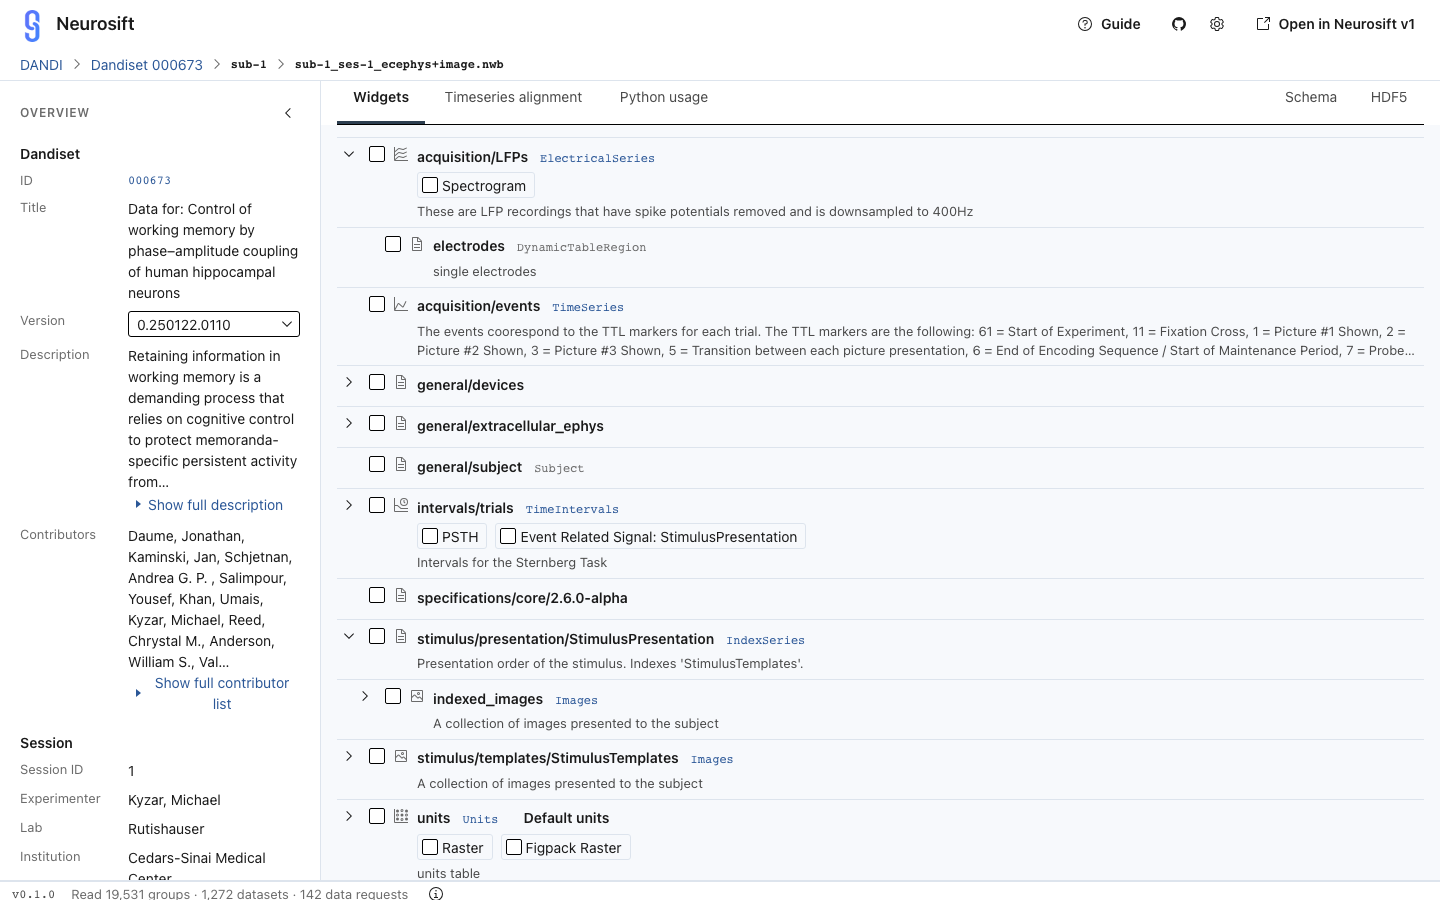
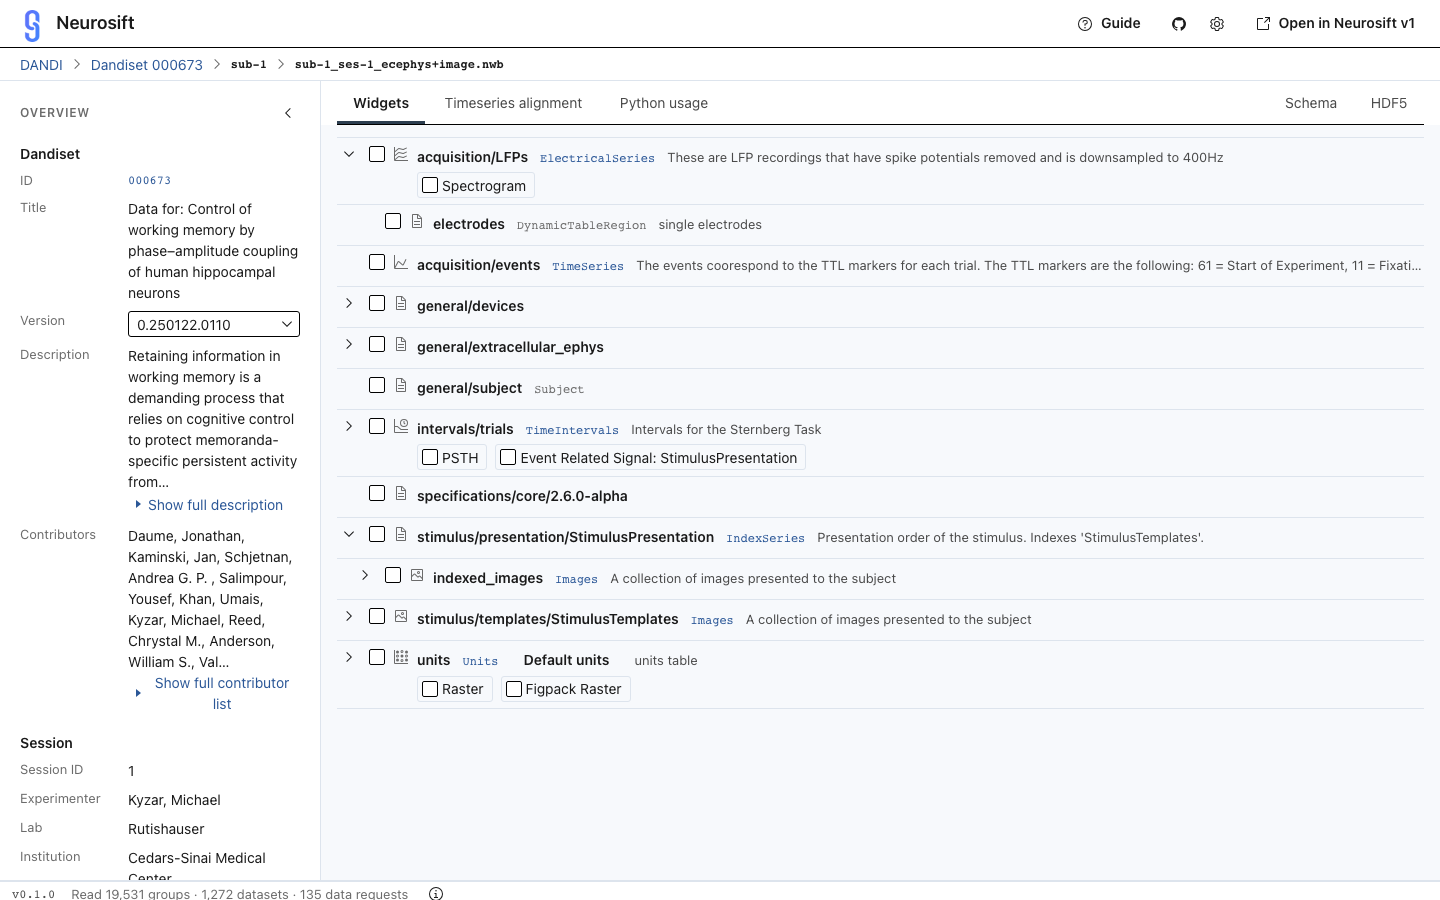
Object tree: put the description beside the neurodata type (#142)
The description now follows the type and badge on the row's first line,
one line cut with an ellipsis, the full text in the DOM and in a title for
hover; view chips stay below. With under 8rem left after the type it moves
to the next line, still one line. The docs clip check accepts an ellipsis
that keeps its full text in title. Updates the Object tree and Tables docs
and re-captures the Main tab with Dandiset 000673.

diff --git a/src/ui/ObjectTree/ObjectTree.test.tsx b/src/ui/ObjectTree/ObjectTree.test.tsx
@@ -69,6 +69,36 @@ describe("ObjectRow", () => {
     ).toContain("LFP recordings");
   });
 
+  it("puts the description on the first line after the type and badge, the views below", () => {
+    const { container } = row({ badge: <span>Default units</span> });
+    const head = container.querySelector(".ns-object-head")!;
+    expect(
+      [...head.children].map((child) => child.textContent?.slice(0, 16)),
+    ).toEqual([
+      "LFPs",
+      "ElectricalSeries",
+      "Default units",
+      "These are LFP re",
+    ]);
+    expect(
+      head.compareDocumentPosition(
+        container.querySelector(".ns-object-views")!,
+      ),
+    ).toBe(Node.DOCUMENT_POSITION_FOLLOWING);
+  });
+
+  it("keeps the full description in the DOM and on hover, however it’s cut", () => {
+    const { container, description } = row();
+    const text = container.querySelector(".ns-object-description")!;
+    expect(text.textContent).toBe(description);
+    expect(text.getAttribute("title")).toBe(description);
+  });
+
+  it("leaves the description out when there is none", () => {
+    const { container } = row({ description: undefined });
+    expect(container.querySelector(".ns-object-description")).toBeNull();
+  });
+
   it("opens and closes a group from a chevron that says whether it’s open", () => {
     const { onToggle } = row({ kind: "collapsed", views: [] });
     const toggle = screen.getByRole("button", {

diff --git a/src/ui/ObjectTree/ObjectTree.tsx b/src/ui/ObjectTree/ObjectTree.tsx
@@ -64,7 +64,7 @@ interface ObjectRowProps {
   children?: ReactNode;
 }
 
-/** A neurodata object in the Main tab: chevron, checkbox, name, views, type and description. */
+/** A neurodata object in the Main tab: chevron, checkbox, name, type and description, then views. */
 export function ObjectRow({
   name,
   path,
@@ -123,6 +123,11 @@ export function ObjectRow({
               </span>
             )}
             {badge}
+            {description && (
+              <span className="ns-object-description" title={description}>
+                {description}
+              </span>
+            )}
           </span>
           {views.length > 0 && (
             <span className="ns-object-views">
@@ -130,9 +135,6 @@ export function ObjectRow({
                 <ViewChip key={view.name} object={name} {...view} />
               ))}
             </span>
-          )}
-          {description && (
-            <span className="ns-object-description">{description}</span>
           )}
           <span className="ns-visually-hidden">{path}</span>
         </span>

diff --git a/src/ui/ObjectTree/ObjectTree.css b/src/ui/ObjectTree/ObjectTree.css
@@ -57,6 +57,8 @@
 
 .ns-object-main {
   display: grid;
+  flex: 1;
+  grid-template-columns: minmax(0, 1fr);
   gap: var(--space-1);
   min-inline-size: 0;
   padding-block: var(--space-0-5);
@@ -94,6 +96,11 @@
   outline-offset: var(--space-0-5);
 }
 
+.ns-object-name,
+.ns-object-type {
+  flex: none;
+}
+
 .ns-object-type {
   font: var(--type-code-sm);
   color: var(--text-muted);
@@ -122,13 +129,15 @@
   font-weight: 400;
 }
 
+/* Takes what the line has left; with less than 8rem it moves to a line of its own. */
 .ns-object-description {
-  display: -webkit-box;
+  flex: 1 1 0;
+  min-inline-size: min(calc(var(--space-16) * 2), 100%);
   overflow: hidden;
   font: var(--type-caption);
   color: var(--text-secondary);
-  -webkit-line-clamp: 2;
-  -webkit-box-orient: vertical;
+  text-overflow: ellipsis;
+  white-space: nowrap;
 }
 
 .ns-selection-bar {

diff --git a/design-system/docs/tests/accessibility.spec.ts b/design-system/docs/tests/accessibility.spec.ts
@@ -42,6 +42,12 @@ const clipped = (page: Page) =>
         if (el.closest(".doc-table, .ns-visually-hidden, .visually-hidden"))
           return false;
         const style = getComputedStyle(el);
+        // An ellipsis that keeps its full text in title, such as an object's description, isn't lost.
+        if (
+          style.textOverflow === "ellipsis" &&
+          el.getAttribute("title") === el.textContent
+        )
+          return false;
         const hides = ["hidden", "clip"].some(
           (v) => style.overflowX === v || style.overflowY === v,
         );
